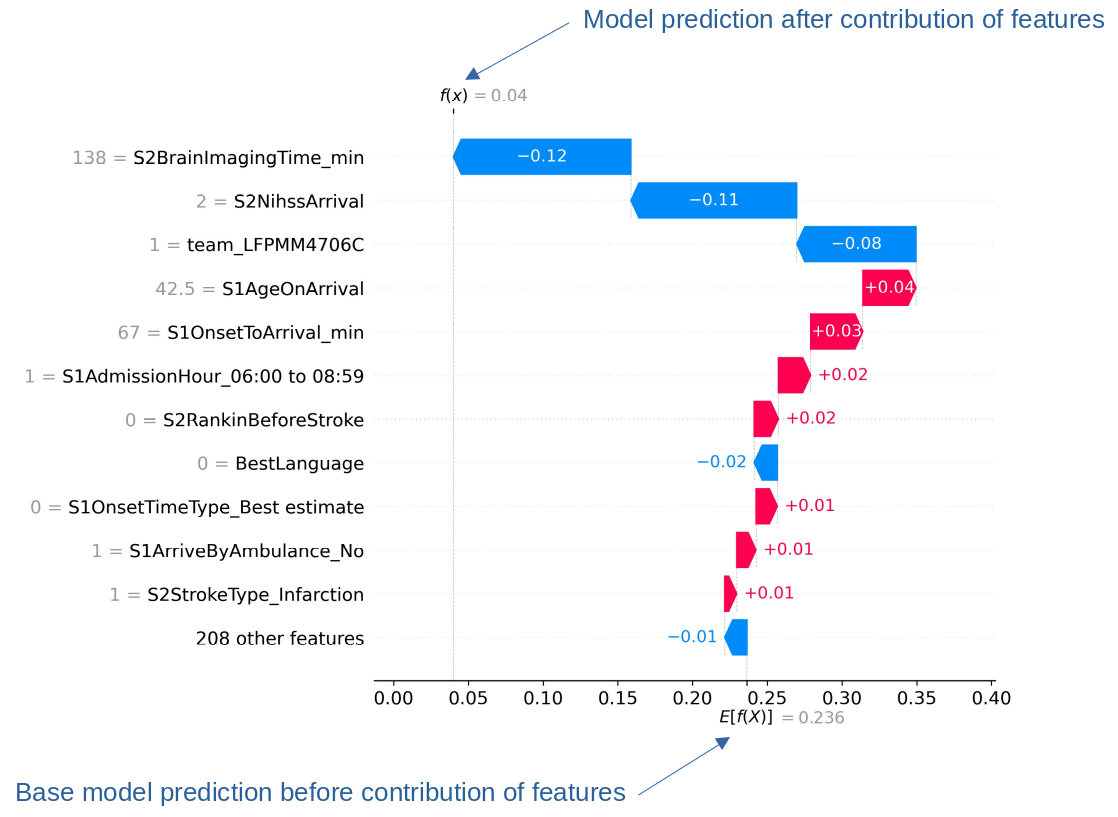
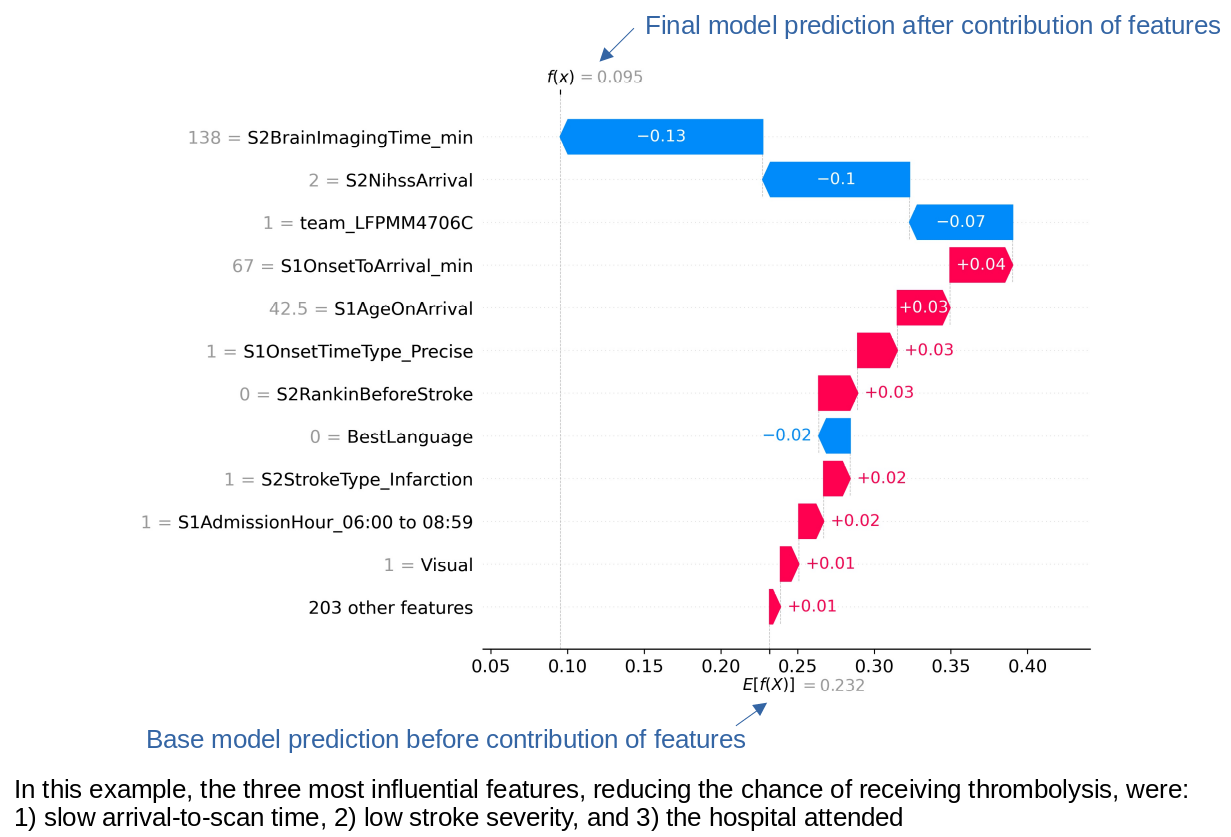
Update documentation

diff --git a/introduction/intro.html b/introduction/intro.html
@@ -436,7 +436,7 @@ const thebe_selector_output = ".output, .cell_output"
 </ol>
 <p>Shap plots may be used to explain predictions of any individual patient (e.g. <a class="reference internal" href="#waterfall-example"><span class="std std-numref">Figure 2</span></a>).</p>
 <div class="figure align-default" id="waterfall-example">
-<a class="reference internal image-reference" href="../_images/xgb_waterfall_low_probability.jpg"><img alt="../_images/xgb_waterfall_low_probability.jpg" src="../_images/xgb_waterfall_low_probability.jpg" style="width: 800px;" /></a>
+<a class="reference internal image-reference" href="../_images/xgb_waterfall_low.png"><img alt="../_images/xgb_waterfall_low.png" src="../_images/xgb_waterfall_low.png" style="width: 800px;" /></a>
 <p class="caption"><span class="caption-number">Fig. 2 </span><span class="caption-text">An example of a Shap <em>waterfall</em> plot showing the most influential features in influencing the model’s prediction of a patient probability of receiving thrombolysis (in this case a patient with a very low probability of receiving thrombolysis).</span><a class="headerlink" href="#waterfall-example" title="Permalink to this image">¶</a></p>
 </div>
 </div>

diff --git a/_sources/introduction/intro.md b/_sources/introduction/intro.md
@@ -57,7 +57,7 @@ The five most influential features in the XGBoost model predicting whether throm
 Shap plots may be used to explain predictions of any individual patient (e.g. {numref}`Figure {number} <waterfall_example>`). 
 
 :::{figure-md} waterfall_example
-<img src="./images/xgb_waterfall_low_probability.jpg" width="800">
+<img src="./images/xgb_waterfall_low.png" width="800">
 
 An example of a Shap *waterfall* plot showing the most influential features in influencing the model's prediction of a patient probability of receiving thrombolysis (in this case a patient with a very low probability of receiving thrombolysis).
 :::
